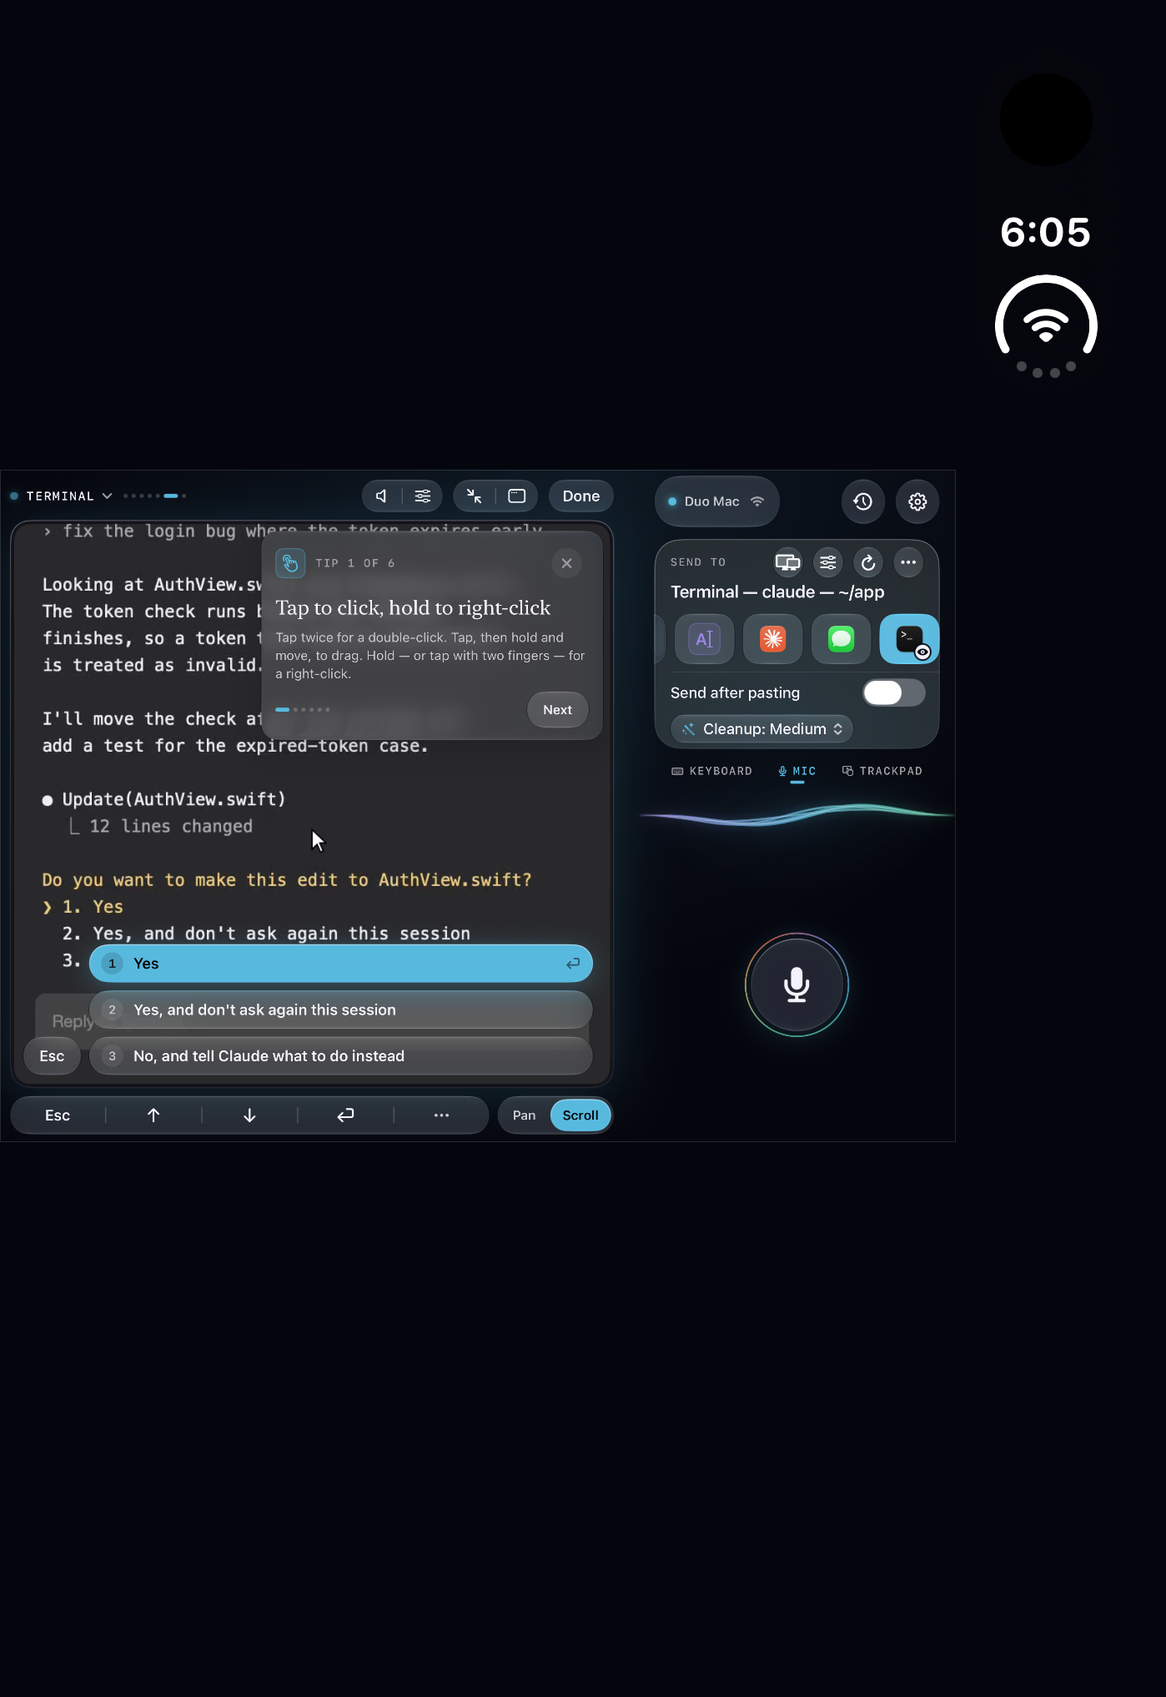
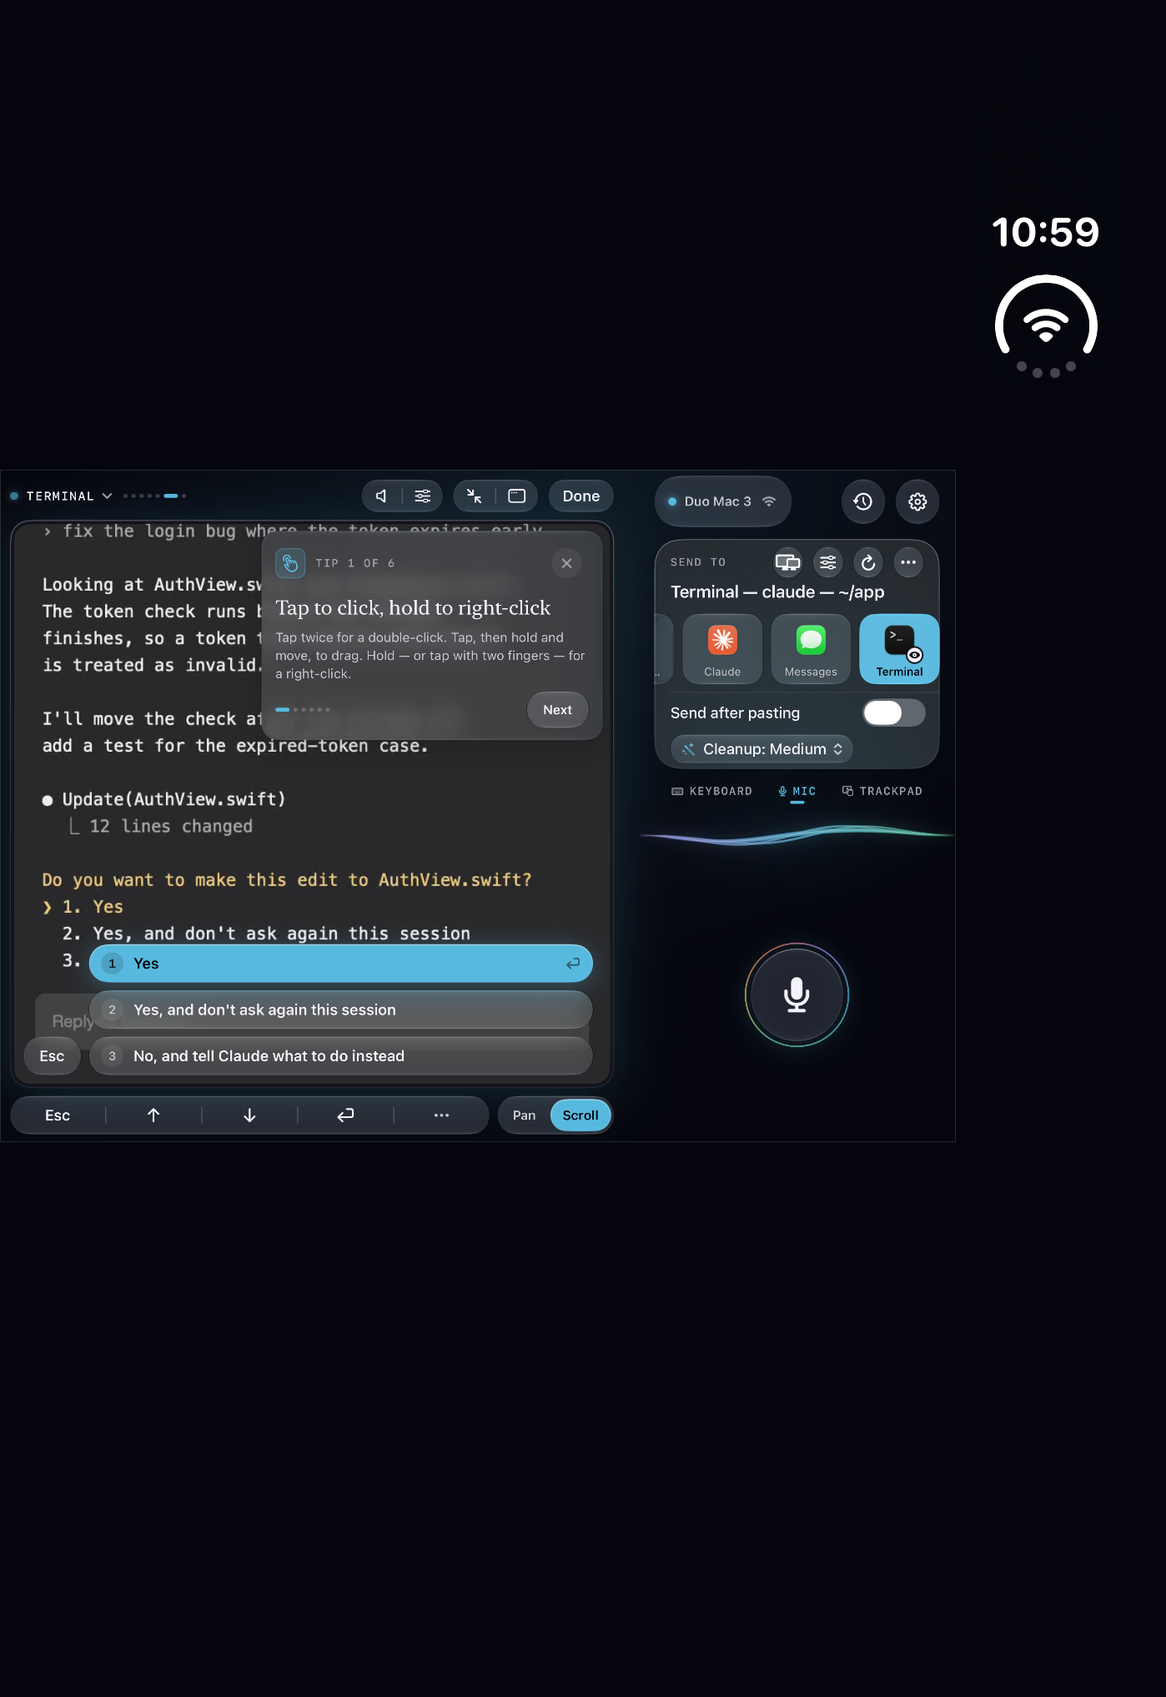
DuoUITests: the laptop's hide goes back to the trackpad it rose over, the switcher's cells are picked by name with a nudge or two (18 × 14 pt in the scaled frame); DuoShotsTests take every pose's frames and the regular iPhone's (Xcode 27's simulator has no window to screenshot from a script, and sim

diff --git a/iOS/MacrophoneUITests/DuoShotsTests.swift b/iOS/MacrophoneUITests/DuoShotsTests.swift
@@ -1,0 +1,112 @@
+import XCTest
+
+/// The iPhone Duo's frames for `docs/screens/duo` (Oct 25 2026, the third pass): every pose's
+/// main screen and window view on each page, the glance and the live words — the inner screen
+/// drawn to scale on the cover (`MACROPHONE_FRAME` + `MACROPHONE_POSTURE`), a paired `mpctl
+/// serve` showing Terminal. Runs only with `TEST_RUNNER_MACROPHONE_DUO_SHOTS=<dir>` (the
+/// screenshots go there, `<pose>/<name>.png`); Xcode 27's simulator has no window of its own to
+/// screenshot from a script — `XCUIScreen` is the one way to the cover's pixels.
+final class DuoShotsTests: XCTestCase {
+    private var dir: String? { ProcessInfo.processInfo.environment["MACROPHONE_DUO_SHOTS"] }
+
+    override func setUp() { continueAfterFailure = true }
+
+    private func shoot(_ pose: String, frame: String, name: String, wait: TimeInterval, extra: [String: String] = [:]) {
+        guard let dir else { return }
+        let app = XCUIApplication()
+        var env = ["MACROPHONE_SCREEN": "main", "MACROPHONE_FRAME": frame, "MACROPHONE_POSTURE": pose,
+                   "MACROPHONE_SEND_TO": "Terminal", "MACROPHONE_DUO_HEADER": "held", "MACROPHONE_WATCH": "1"]
+        env.merge(extra) { $1 }
+        app.launchEnvironment = env
+        app.launch()
+        let allow = XCUIApplication(bundleIdentifier: "com.apple.springboard").buttons["Allow"]
+        if allow.waitForExistence(timeout: 1.5) { allow.tap() }
+        _ = app.descendants(matching: .any)["duo-frame"].firstMatch.waitForExistence(timeout: 10)
+        // The window view comes up once the Mac is connected; the tips are put away first.
+        let gotIt = app.buttons["Got it"]
+        let deadline = Date().addingTimeInterval(wait)
+        while Date() < deadline {
+            if gotIt.exists { gotIt.tap() }
+            RunLoop.current.run(until: Date().addingTimeInterval(0.5))
+        }
+        let folder = URL(fileURLWithPath: dir).appendingPathComponent(pose)
+        try? FileManager.default.createDirectory(at: folder, withIntermediateDirectories: true)
+        try? XCUIScreen.main.screenshot().pngRepresentation.write(to: folder.appendingPathComponent("\(name).png"))
+        app.terminate()
+    }
+
+    private func pose(_ pose: String, frame: String) {
+        shoot(pose, frame: frame, name: "1-main", wait: 7)
+        shoot(pose, frame: frame, name: "2-window-mic", wait: 9, extra: ["MACROPHONE_WATCH_ACTIONS": "page@mic"])
+        shoot(pose, frame: frame, name: "3-window-keyboard", wait: 9, extra: ["MACROPHONE_WATCH_ACTIONS": "page@keyboard", "MACROPHONE_FAKE_KEYBOARD": "216"])
+        shoot(pose, frame: frame, name: "4-window-trackpad", wait: 9, extra: ["MACROPHONE_WATCH_ACTIONS": "page@trackpad"])
+        shoot(pose, frame: frame, name: "7-glance", wait: 9, extra: ["MACROPHONE_WATCH_ACTIONS": "done"])
+        shoot(pose, frame: frame, name: "8-live-words", wait: 10, extra: ["MACROPHONE_WATCH_ACTIONS": "say@Fix the login bug where the token expires early"])
+    }
+
+    func testPortraitFrames() throws {
+        guard dir != nil else { throw XCTSkip("MACROPHONE_DUO_SHOTS not set") }
+        pose("portrait", frame: "669x951")
+    }
+
+    func testLandscapeFrames() throws {
+        guard dir != nil else { throw XCTSkip("MACROPHONE_DUO_SHOTS not set") }
+        pose("landscape", frame: "951x669")
+    }
+
+    func testLaptopFrames() throws {
+        guard dir != nil else { throw XCTSkip("MACROPHONE_DUO_SHOTS not set") }
+        pose("laptop", frame: "951x669")
+    }
+
+    func testBookFrames() throws {
+        guard dir != nil else { throw XCTSkip("MACROPHONE_DUO_SHOTS not set") }
+        pose("book", frame: "669x951")
+    }
+
+    /// A look at the real keyboard rising on the laptop's deck (what the simulator does with it),
+    /// a frame a second: `MACROPHONE_DUO_PROBE=1`.
+    func testLaptopRealKeyboardProbe() throws {
+        guard let dir, ProcessInfo.processInfo.environment["MACROPHONE_DUO_PROBE"] == "1" else { throw XCTSkip("MACROPHONE_DUO_PROBE not set") }
+        let app = XCUIApplication()
+        app.launchEnvironment = ["MACROPHONE_SCREEN": "main", "MACROPHONE_FRAME": "951x669", "MACROPHONE_POSTURE": "laptop",
+                                 "MACROPHONE_SEND_TO": "Terminal", "MACROPHONE_DUO_HEADER": "held", "MACROPHONE_WATCH": "1"]
+        app.launch()
+        let allow = XCUIApplication(bundleIdentifier: "com.apple.springboard").buttons["Allow"]
+        if allow.waitForExistence(timeout: 1.5) { allow.tap() }
+        let switcher = app.descendants(matching: .any)["input-pages"]
+        XCTAssertTrue(switcher.waitForExistence(timeout: 20))
+        let folder = URL(fileURLWithPath: dir).appendingPathComponent("probe")
+        try? FileManager.default.createDirectory(at: folder, withIntermediateDirectories: true)
+        switcher.coordinate(withNormalizedOffset: CGVector(dx: 0.17, dy: 0.5)).tap()
+        for i in 0..<6 {
+            RunLoop.current.run(until: Date().addingTimeInterval(0.7))
+            try? XCUIScreen.main.screenshot().pngRepresentation.write(to: folder.appendingPathComponent("k\(i).png"))
+            print("PROBE \(i): switcher=\(switcher.value ?? "") keyboards=\(app.keyboards.count) continue=\(app.buttons["Continue"].exists) sb-continue=\(XCUIApplication(bundleIdentifier: "com.apple.springboard").buttons["Continue"].exists)")
+        }
+        try? app.debugDescription.write(to: folder.appendingPathComponent("hierarchy.txt"), atomically: true, encoding: .utf8)
+    }
+
+    /// The regular iPhone's main screen and window view, for `docs/screens/duo/regular-iphone`
+    /// (unchanged by the Duo work; the proof is the frame).
+    func testRegularFrames() throws {
+        guard let dir, ProcessInfo.processInfo.environment["MACROPHONE_DUO_REGULAR"] == "1" else { throw XCTSkip("MACROPHONE_DUO_REGULAR not set") }
+        for (name, env) in [("1-main", [:]), ("2-window", ["MACROPHONE_WATCH": "1"]), ("3-window-keyboard", ["MACROPHONE_WATCH": "1", "MACROPHONE_WATCH_ACTIONS": "page@keyboard"])] as [(String, [String: String])] {
+            let app = XCUIApplication()
+            app.launchEnvironment = ["MACROPHONE_SCREEN": "main", "MACROPHONE_SEND_TO": "Terminal"].merging(env) { $1 }
+            app.launch()
+            let allow = XCUIApplication(bundleIdentifier: "com.apple.springboard").buttons["Allow"]
+            if allow.waitForExistence(timeout: 1.5) { allow.tap() }
+            let gotIt = app.buttons["Got it"]
+            let deadline = Date().addingTimeInterval(env.isEmpty ? 5 : 9)
+            while Date() < deadline {
+                if gotIt.exists { gotIt.tap() }
+                RunLoop.current.run(until: Date().addingTimeInterval(0.5))
+            }
+            let folder = URL(fileURLWithPath: dir).appendingPathComponent("regular-iphone")
+            try? FileManager.default.createDirectory(at: folder, withIntermediateDirectories: true)
+            try? XCUIScreen.main.screenshot().pngRepresentation.write(to: folder.appendingPathComponent("\(name).png"))
+            app.terminate()
+        }
+    }
+}

diff --git a/iOS/MacrophoneUITests/DuoUITests.swift b/iOS/MacrophoneUITests/DuoUITests.swift
@@ -44,6 +44,22 @@ final class DuoUITests: XCTestCase {
         try? XCUIScreen.main.screenshot().pngRepresentation.write(to: URL(fileURLWithPath: dir).appendingPathComponent("\(name).png"))
     }
 
+    /// A page by the corner switcher: its cell by name (the frame is drawn at 0.4×, so a cell is
+    /// 18 × 14 points on the cover — a tap on the cell itself lands, a fraction of the row may not).
+    private func pick(_ switcher: XCUIElement, _ page: String, at fraction: CGFloat) {
+        let cell = switcher.buttons[page]
+        let want = NSPredicate(format: "value == %@", page)
+        // A cell that small can be missed by a point or two: a few tries, a nudge up and down.
+        for nudge in [0, -4, 4, 2, -2] as [CGFloat] {
+            if cell.exists {
+                cell.coordinate(withNormalizedOffset: CGVector(dx: 0.5, dy: 0.5)).withOffset(CGVector(dx: 0, dy: nudge)).tap()
+            } else {
+                switcher.coordinate(withNormalizedOffset: CGVector(dx: fraction, dy: 0.5)).withOffset(CGVector(dx: 0, dy: nudge)).tap()
+            }
+            if XCTWaiter().wait(for: [XCTNSPredicateExpectation(predicate: want, object: switcher)], timeout: 1.5) == .completed { return }
+        }
+    }
+
     private func dismissTips(_ app: XCUIApplication) {
         let gotIt = app.buttons["Got it"]
         for _ in 0..<6 where gotIt.waitForExistence(timeout: 1) { gotIt.tap() }
@@ -57,7 +73,7 @@ final class DuoUITests: XCTestCase {
         guard switcher.waitForExistence(timeout: 20) else { throw XCTSkip("no Mac naming the keyboard and trackpad pages is connected") }
         let trackpad = app.descendants(matching: .any)["input-trackpad"]
         // The deck remembers its page per pose (a run before may have left it on the mic).
-        if switcher.value as? String != "Trackpad" { switcher.coordinate(withNormalizedOffset: CGVector(dx: 0.83, dy: 0.5)).tap() }
+        if switcher.value as? String != "Trackpad" { pick(switcher, "Trackpad", at: 0.83) }
         XCTAssertTrue(trackpad.waitForExistence(timeout: 5), "the laptop deck opens on the trackpad")
         XCTAssertEqual(switcher.value as? String, "Trackpad")
         // The header comes up on a touch of the Mac's half, fades a few seconds later, and comes
@@ -91,10 +107,13 @@ final class DuoUITests: XCTestCase {
         mid.tap()
 
         // The corner switcher: the keyboard rises over the deck, with the Mac's keys on its bar.
-        switcher.coordinate(withNormalizedOffset: CGVector(dx: 0.17, dy: 0.5)).tap()
-        XCTAssertTrue(app.keyboards.firstMatch.waitForExistence(timeout: 6), "the iOS keyboard comes up")
+        pick(switcher, "Keyboard", at: 0.17)
+        // A fresh simulator's first keyboard may bring a system prompt that takes the keyboard's
+        // first moment (and the page with it): put it away and ask again.
         let cont = app.buttons["Continue"]
-        if cont.waitForExistence(timeout: 1) { cont.tap() }
+        if cont.waitForExistence(timeout: 2) { cont.tap() }
+        if switcher.value as? String != "Keyboard" { pick(switcher, "Keyboard", at: 0.17) }
+        XCTAssertTrue(app.keyboards.firstMatch.waitForExistence(timeout: 6), "the iOS keyboard comes up")
         XCTAssertEqual(switcher.value as? String, "Keyboard")
         XCTAssertTrue(app.buttons["keyboard-escape"].waitForExistence(timeout: 3), "esc and the arrows ride on the bar")
         app.typeText("duo")
@@ -102,17 +121,24 @@ final class DuoUITests: XCTestCase {
         let hide = app.buttons["Hide the keyboard"]
         XCTAssertTrue(hide.waitForExistence(timeout: 3))
         hide.tap()
-        let mic = app.buttons["Start dictation"]
-        XCTAssertTrue(mic.waitForExistence(timeout: 5), "hide comes back to the mic")
-        XCTAssertEqual(switcher.value as? String, "Mic")
+        // Hide goes back to the page the keyboard rose over — the trackpad here, the hands
+        // already on the deck (the third pass; the mic on a flat screen, as ever).
+        XCTAssertTrue(trackpad.waitForExistence(timeout: 5), "hide comes back to the trackpad it rose over")
+        XCTAssertEqual(switcher.value as? String, "Trackpad")
         XCTAssertFalse(app.keyboards.firstMatch.exists)
+        // The mic by the switcher: on the deck, under the fold.
+        pick(switcher, "Mic", at: 0.5)
+        let mic = app.buttons["Start dictation"]
+        XCTAssertTrue(mic.waitForExistence(timeout: 5), "the switcher brings the mic")
+        XCTAssertEqual(switcher.value as? String, "Mic")
         XCTAssertGreaterThan(mic.frame.minY, inner.midY, "the mic is on the deck")
         shot("laptop-mic")
 
         // Back to the trackpad by the switcher; Done leaves the glance — the window still live —
         // and Show it here takes it back in hand.
-        switcher.coordinate(withNormalizedOffset: CGVector(dx: 0.83, dy: 0.5)).tap()
+        pick(switcher, "Trackpad", at: 0.83)
         XCTAssertTrue(trackpad.waitForExistence(timeout: 3))
+        // A tap on the overlay header's own ground is the header's, never a click on the Mac.
         screen.tap()
         XCTAssertTrue(done.waitForExistence(timeout: 2))
         done.tap()
@@ -130,7 +156,7 @@ final class DuoUITests: XCTestCase {
         let switcher = app.descendants(matching: .any)["input-pages"]
         guard switcher.waitForExistence(timeout: 20) else { throw XCTSkip("no Mac naming the keyboard and trackpad pages is connected") }
         let trackpad = app.descendants(matching: .any)["input-trackpad"]
-        if switcher.value as? String != "Trackpad" { switcher.coordinate(withNormalizedOffset: CGVector(dx: 0.83, dy: 0.5)).tap() }
+        if switcher.value as? String != "Trackpad" { pick(switcher, "Trackpad", at: 0.83) }
         XCTAssertTrue(trackpad.waitForExistence(timeout: 5))
         // A touch on the left page brings its header up.
         app.coordinate(withNormalizedOffset: .zero).withOffset(CGVector(dx: inner.minX + inner.width * 0.25, dy: inner.midY)).tap()
@@ -171,7 +197,7 @@ final class DuoUITests: XCTestCase {
         XCTAssertGreaterThan(mic.frame.minX, inner.width * 0.6, "and so is the mic")
         let switcher = app.descendants(matching: .any)["input-pages"]
         guard switcher.waitForExistence(timeout: 15) else { throw XCTSkip("no Mac naming the pages is connected") }
-        switcher.coordinate(withNormalizedOffset: CGVector(dx: 0.9, dy: 0.5)).tap()
+        pick(switcher, "Trackpad", at: 0.9)
         let trackpad = app.descendants(matching: .any)["input-trackpad"]
         XCTAssertTrue(trackpad.waitForExistence(timeout: 3), "the deck's trackpad fills the rail's foot")
         XCTAssertGreaterThan(trackpad.frame.minX, inner.width * 0.6)

diff --git a/CLAUDE.md b/CLAUDE.md
@@ -152,11 +152,69 @@ same day; the second (below, "the laptop in earnest") wins where they differ.
   notifications prompt tapped away on a fresh simulator): the laptop pose opens on the trackpad
   which takes ≥ 80% of the bottom half, the answers sit over the top half, the header fades and a
   touch brings it back, a drag moves the pointer, the corner switcher brings the keyboard and
-  typing reaches the Mac, hide comes back to the mic on the deck, Done leaves the glance ("Live on
+  typing reaches the Mac, hide comes back to the trackpad it rose over, Done leaves the glance ("Live on
   your Mac", the pages put away) and Show it here brings the deck back; the book's deck is the
   right page and its answers float on the left; the open screen keeps the mic and the panel off
   the fold under a large window; on its side the rail holds Send to, the mic and the trackpad.
   `TEST_RUNNER_MACROPHONE_DUO_SHOTS=<dir>`.
+- **The third pass (the review, the same day) — what it changed:**
+  - *The rule:* an inner pose needs the inner screen. `FoldPose.derive` keeps a scene narrower
+    than `innerShortSide` at `.closed` whatever the hinge says (the hinge is partly open while
+    the app is still on the cover as the phone opens or closes — the cover drew a 466 pt laptop
+    for a frame); a size of zero still lets the hinge's word stand. `deckRise` is in fiftieths,
+    so a hinge trembling by a fraction of a degree moves nothing. Tested.
+  - *The read:* `Posture` publishes only what a layout draws from (the pose, the halves, the
+    rise); the raw `reading` isn't published and `hinge(_:angle:)` drops a reading that changes
+    neither the status nor the rise's step — every half-degree used to re-lay the whole main
+    view. The first pose derived after the first measure is the one the app opened in: no tick,
+    no announcement for it. `PostureReader` measures the scene in a background layer that
+    ignores the keyboard, so the content keeps the keyboard avoidance it always had — the
+    second pass had wrapped the whole main view in `ignoresSafeArea(.keyboard)`, which took it
+    away from every regular iPhone (the keyboard covered the window instead of the window
+    moving up); the folded bodies ignore the keyboard themselves, as before. `DeviceHinge.angle`
+    is an `Angle` (`.degrees`); `ReservedRegion.frame` is in the proxy's own space, margins
+    included (UIKit's `UIViewReservedRegion` says so in words) — both checked against the SDK.
+  - *The Mac's window is reshaped only on a pose change:* `Watcher.followShape` is armed by
+    `poseSettled()` (AppModel's `poseChanged`) and spent by the next follow or after 4 s —
+    it used to run on every change of the view's size, so on a regular iPhone a fitted window
+    was reshaped on the Mac each time the keyboard rose, a question's answers appeared or a
+    tip card went. `applyHalfFit` takes only a folded half's own measure
+    (`viewerMeasured(_:fill:)`, `WatchWindow(fill:)` says which), never the phone layout's
+    still on screen in the cross-fade; `shapeSent` is cleared on a switch and on close.
+  - *The deck:* `MacInput.hideKeyboard()` — the bar's button, the swipe down and the system
+    closing the keyboard — goes back to the page the keyboard rose over on a folded deck (the
+    trackpad on a laptop: the hands are already there; `underKeyboard`), the mic on a flat
+    screen as ever; the deck never remembers the keyboard as its page (it rose at once on the
+    next open), only the mic or the trackpad; a pose change while glancing shows no page (no
+    pointer sent while the controls are put away: `isShowing`).
+  - *The overlay header:* a finger moving over the picture re-arms its hold at most twice a
+    second (it was a task per touch frame); the hold is cancelled when the half leaves; its
+    ground takes a tap (a tap between its controls never clicked through to the Mac's title
+    bar under it); the book's header has Pan | Scroll too (it had no way to it).
+  - *The glance* of a pick that isn't open on the Mac says so instead of offering Show it
+    here (opening a closed app's window started a watch that never came up).
+  - *The keyboard page survives a cross-fade* (`KeyboardTextView`, MacKeyboardView.swift): every
+    pose lays out its own carousel, so while two layouts cross-fade — a fold, an unfold, the
+    deck's not-watching screen giving way to the window — two keyboard fields are alive and
+    both want the keyboard; the arriving one took it, UIKit resigned the leaving one, and 0.35 s
+    later the leaving one declared the keyboard gone and put the page back (on the simulator
+    SwiftUI even kept the deck's faded-out layout around at alpha 0, so the laptop's keyboard
+    page fell back to the trackpad every time, 0.6 s in). Now a field hidden by an ancestor
+    (alpha 0, hidden) never takes the keyboard, a resign inside the field's own
+    `becomeFirstResponder` (asked twice) is no loss, "gone" is never declared while another
+    field of the page holds the keyboard (`current`), and a field leaving the window hands the
+    keyboard to one still there (`all`). `MacInput.hideKeyboard` is what every keyboard-gone
+    path calls.
+  - *The room (Sameer: "make sure the app is appropriately taking advantage of the additional
+    screen space inside"):* on the inner screen every place in Send to has its name under its
+    icon (`QuickControls(named:)`, `PlacesLook` 68 × 62 cells — the row reads at a glance, and
+    Open… at its end); a sheet is a form in the middle of the screen (`InnerScreenSheet`:
+    `presentationSizing(.form)`, the Mac Controls panel `.fitted`, iOS 18+ and only while the
+    pose is inner — the cover and every other iPhone keep their sheets); the laptop's deck with
+    nothing watched lays Send to and the mic side by side (the stack of top bar, panel and mic
+    overflowed a 320 pt half). The window already fills what each pose gives it; Sound, Mac
+    Controls, zoom out, Window, Pan | Scroll are visible in every header; Whole Screen, Mac
+    Controls, Refresh and ⋯ are round buttons on the panel.
 - **Needs a real Duo:** the hinge's angle range and update rate (the deck's rise is tuned to
   165°→120°), the division region's frame and margins, which display the scene lands on when
   folding, the inner keyboard's height in the laptop pose (the deck is ~320 pt; the bar + keys
@@ -164,7 +222,18 @@ same day; the second (below, "the laptop in earnest") wins where they differ.
   touch over the window's UIKit viewer reveals the header on hardware as it does on the
   simulator, the Mac's picture at the inner screen's size (the stream is already up to 2,560 px
   wide; `watchShape` carries the view's points — nothing on the Mac changes), and a real Mac
-  window taking the half's shape (the demo can't).
+  window taking the half's shape (the demo can't); the inner screen's size class (a form sheet is
+  a form only in a regular width — on a compact one `presentationSizing(.form)` is a plain
+  sheet, which is no worse than before); whether UIKit asks the delegate again for the
+  orientations when the scene moves between the displays (`setNeedsUpdateOfSupportedInterface
+  Orientations()` is called on the pose crossing the fold, in case it doesn't); the keyboard on
+  the open poses (it avoids as on the phone: the window moves up over it).
+  The frames are taken by `DuoShotsTests` (`TEST_RUNNER_MACROPHONE_DUO_SHOTS=<dir>`, and
+  `…_DUO_REGULAR=1` for the regular iPhone's) — in Xcode 27 the simulator has no window of its
+  own and `simctl io screenshot` returns the dark inner display, so `XCUIScreen` is the one way
+  to the cover's pixels. Turn `settings.agentAlerts` off on the simulator first (`simctl spawn
+  <udid> defaults write com.sameer.macrophone settings.agentAlerts -bool false`): the demo Mac's
+  question raises a banner over the frame's top.
 
 ## Several Macs on one iPhone (Oct 19 2026)
 
